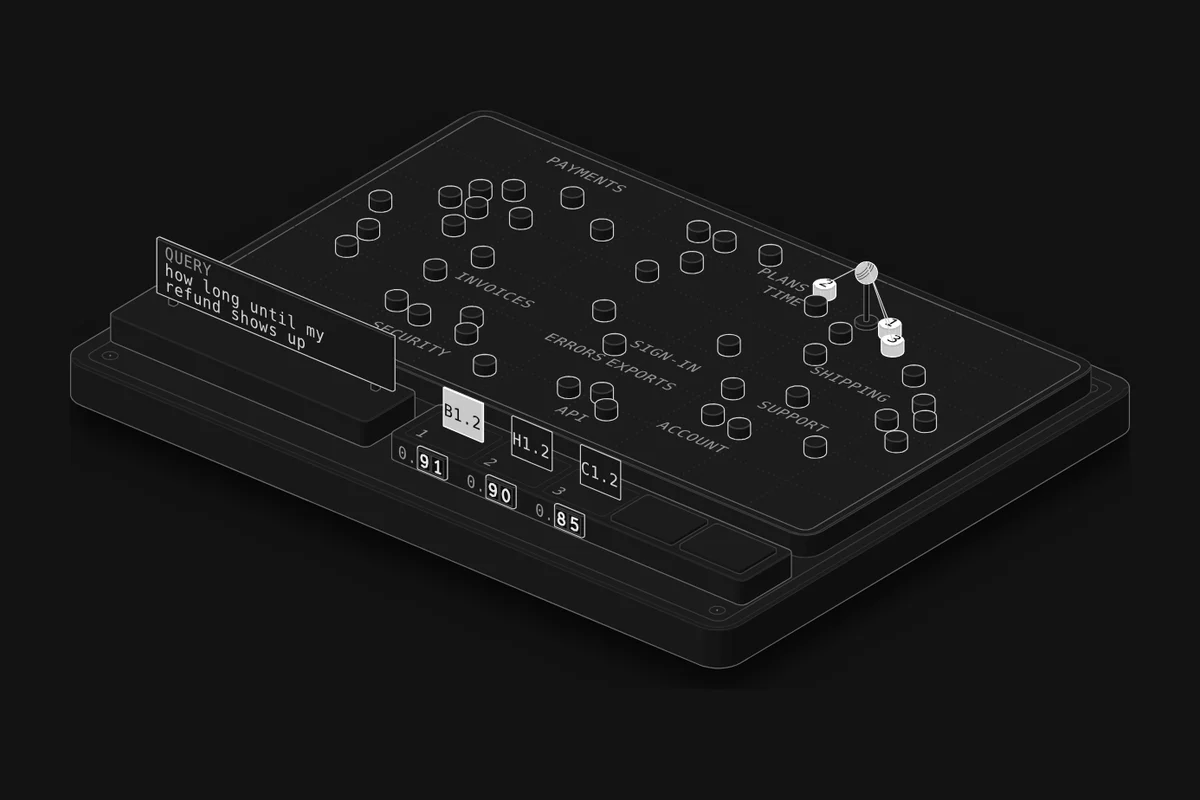
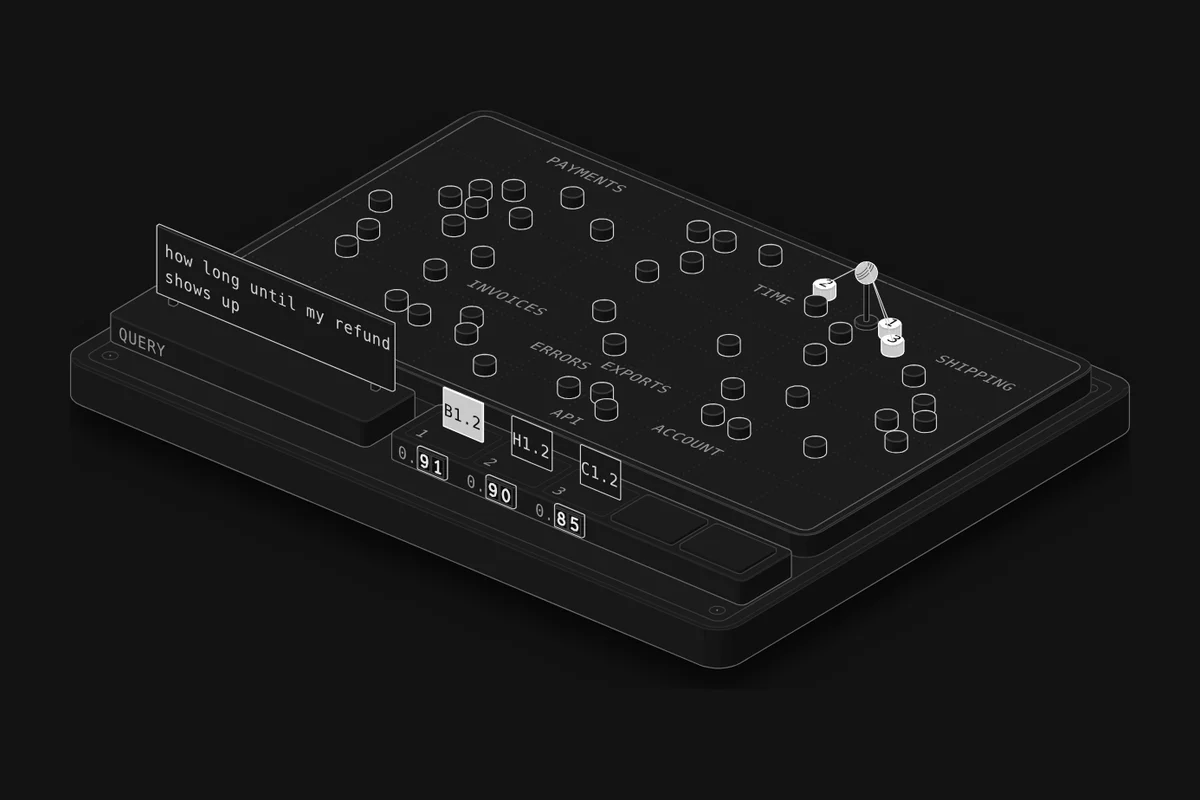
semantic: make the queries readable
- The query buttons show the whole query instead of cutting it at 24
  characters ("how long until my refund shows up", "lost my phone and
  can't log in").
- The query board's lines were spaced for the size the words are drawn
  at, but the 9 px floor makes them larger, so QUERY and the two lines ran
  into each other. The board is taller, its lines are spaced by the size
  the words come out at, a short query sits in the middle, and QUERY
  moved to the front of the desk.
- Constellation names were kept apart by their drawn size too, so they
  ran together (ERRORS EXPORTS) and sat under studs or behind the board;
  they now go by the floored size, and a name that would be covered is
  left out.
- On a phone the close-up has Query and Results regions, so the board can
  be read whole; the query stat takes a full row on the desktop too.

Claude-Session: https://claude.ai/code/session_01S5z2gCvevbrGU3fXgpGDmP

diff --git a/src/lessons/semantic/figure.ts b/src/lessons/semantic/figure.ts
@@ -25,7 +25,7 @@ export const FIELD = { x: MAP.x + 4, y: MAP.y + 4, w: MAP.w - 8, d: MAP.d - 8, p
 
 const CONSOLE = { x: -114, y: 28, w: 92, d: 22, r: 2 };
 const CONSOLE_H = 8;
-const BOARD = { x: CONSOLE.x + 4, y: CONSOLE.y + 6, w: 84, h: 17 };
+const BOARD = { x: CONSOLE.x + 4, y: CONSOLE.y + 6, w: 84, h: 21 };
 
 const RACK = { x: -14, y: 28, w: 126, d: 22, r: 2 };
 const RACK_H = 7.5;
@@ -59,19 +59,27 @@ function table() {
   return out.join("");
 }
 
-// The query console: a desk with the query printed on a standing board, and counters for how many
-// chunks the search compared out of how many there are.
+// The size a word on the board, or on the map, actually comes out at: raised to the 9 px floor (k.textFloor), the size
+// the line spacing and the wrapping have to go by.
+const flooredSize = (svg) => +k.textFloor(svg, WIDTH).match(/font-size="([\d.]+)"/)[1];
+const QUERY_SIZE = 3.9;
+const QUERY_FS = flooredSize(faceText(P, [BOARD.x, BOARD.y, CONSOLE_H], "x", { size: QUERY_SIZE }));
+// the board's lines, from the bottom: a query that fits one line sits in the middle
+const QUERY_MID = CONSOLE_H + 1.4 + BOARD.h / 2 - 0.36 * QUERY_FS;   // baseline of a line centred on the board
+const QUERY_LINES = { two: [QUERY_MID - 0.75 * QUERY_FS, QUERY_MID + 0.75 * QUERY_FS], one: QUERY_MID };
+
+// The query console: a desk with QUERY on its front and the query printed on a standing board, on one line or two.
 function consoleDesk() {
   const out = [S(k.slabOf(CONSOLE, 0, CONSOLE_H, P, 3, 0.5), { tone: "mid" })];
   const front = CONSOLE.y + CONSOLE.d;
-  // (how many chunks the search compared is in the stats strip)
+  out.push(faceText(P, [CONSOLE.x + 4, front, 2], t("QUERY", "CONSULTA"), { size: 2.2, tone: "mid" }));
   // the board: two legs and a panel; the query reads across its face
   const by = BOARD.y, z0 = CONSOLE_H + 1.4;
   for (const x of [BOARD.x + 6, BOARD.x + BOARD.w - 6]) out.push(S(k.slabOf({ x: x - 1, y: by - 1, w: 2, d: 2, r: 0.3 }, CONSOLE_H, 1.6, P, 2), { tone: "mid", crease: "none" }));
   out.push(S(k.slabOf({ x: BOARD.x, y: by - 1.2, w: BOARD.w, d: 1.2, r: 0.2 }, z0, BOARD.h, P, 2), { tone: "hi", crease: "lo" }));
-  out.push(faceText(P, [BOARD.x + 3, by, z0 + BOARD.h - 5], t("QUERY", "CONSULTA"), { size: 2.2, tone: "mid" }));
-  out.push(faceText(P, [BOARD.x + 3, by, z0 + 6.6], "", { size: 3.9, tone: "hi", attr: "data-query" }));
-  out.push(faceText(P, [BOARD.x + 3, by, z0 + 1.8], "", { size: 3.9, tone: "hi", attr: "data-query2" }));
+  out.push(faceText(P, [BOARD.x + 3, by, QUERY_LINES.two[1]], "", { size: QUERY_SIZE, tone: "hi", attr: "data-query" }));
+  out.push(faceText(P, [BOARD.x + 3, by, QUERY_LINES.one], "", { size: QUERY_SIZE, tone: "hi", attr: "data-query1" }));
+  out.push(faceText(P, [BOARD.x + 3, by, QUERY_LINES.two[0]], "", { size: QUERY_SIZE, tone: "hi", attr: "data-query2" }));
   return out.join("");
 }
 
@@ -141,8 +149,26 @@ export function buildFigure() {
   });
 }
 
-export const LABEL_SIZE = 3.1;
-// How many characters of the query fit a line of the board at the text floor (live.ts wraps it in two lines).
-const QUERY_CHARS = Math.floor((BOARD.w - 6) / (0.66 * k.textSize(P, k.TEXT_FLOOR_PX, { width: WIDTH })));
-export const GEOMETRY = { MAP, MAP_H, FIELD, SLOT_X, SLOTS, PIN, LAMP_TOP, LABEL_SIZE, QUERY_CHARS };
-export const labelSvg = () => faceText(P, [0, 0, MAP_H], "", { face: "top", size: LABEL_SIZE, tone: "mid", anchor: "middle", attr: "data-label" });
+export const labelSvg = () => faceText(P, [0, 0, MAP_H], "", { face: "top", size: 3.1, tone: "mid", anchor: "middle", attr: "data-label" });
+// The size a constellation's name comes out at on the map (raised to the floor): live.ts keeps the names apart by it.
+export const LABEL_SIZE = flooredSize(faceText(P, [0, 0, MAP_H], "x", { face: "top", size: 3.1 }));
+// How many characters of the query fit a line of the board (a monospace character is 0.6 em; live.ts wraps in two lines).
+const QUERY_CHARS = Math.floor((BOARD.w - 6) / (0.62 * QUERY_FS));
+// What the query board and its desk hide of the map, on screen: a name placed there would be cut off.
+const z0 = CONSOLE_H + 1.4;
+const HIDDEN = (() => {
+  const pts = [[BOARD.x, BOARD.y, z0], [BOARD.x + BOARD.w, BOARD.y, z0], [BOARD.x + BOARD.w, BOARD.y, z0 + BOARD.h], [BOARD.x, BOARD.y, z0 + BOARD.h],
+    ...k.boxCorners(CONSOLE, 0, CONSOLE_H)].map((p) => k.iso(p, P));
+  // convex hull (monotone chain), so live.ts can test a point with a cross product per edge
+  pts.sort((a, b) => a[0] - b[0] || a[1] - b[1]);
+  const cross = (o, a, b) => (a[0] - o[0]) * (b[1] - o[1]) - (a[1] - o[1]) * (b[0] - o[0]);
+  const half = (list) => { const h = []; for (const p of list) { while (h.length >= 2 && cross(h[h.length - 2], h[h.length - 1], p) <= 0) h.pop(); h.push(p); } h.pop(); return h; };
+  return [...half(pts), ...half([...pts].reverse())].map(([x, y]) => [+x.toFixed(2), +y.toFixed(2)]);
+})();
+export const GEOMETRY = { MAP, MAP_H, FIELD, SLOT_X, SLOTS, PIN, LAMP_TOP, LABEL_SIZE, QUERY_CHARS, HIDDEN };
+
+// The phone close-up's regions: the query on its board, and the results rack. (Otherwise it follows what is lit.)
+export const REGIONS = [
+  { id: "query", label: t("Query", "Consulta"), box: k.screenBox(P, k.boxCorners(CONSOLE, 0, z0 + BOARD.h), 2) },
+  { id: "results", label: t("Results", "Resultados"), box: k.screenBox(P, k.boxCorners(RACK, 0, RACK_H + CARD.h), 2) },
+];

diff --git a/src/lessons/semantic/live.ts b/src/lessons/semantic/live.ts
@@ -2,7 +2,7 @@
 // The star-map table in the browser: chunks the help centre at the chosen size, lays it out, runs each query's
 // search (an exact sweep or graph hops) step by step, and answers the controls. mount() gets the build-time data
 // from page.ts (geometry, part drawings) and root, the <wb-lesson>.
-import { translateAlong, depthOf, segment, lineSvg, ring } from "../../../workbench/vendor-anatomy/kit/iso-kit.mjs";
+import { translateAlong, depthOf, segment, lineSvg, ring, iso } from "../../../workbench/vendor-anatomy/kit/iso-kit.mjs";
 import * as WB from "../../runtime/wb";
 import { L as tr } from "../../runtime/wb";   // L is taken by the layers below
 import { playPause } from "../../runtime/dom";
@@ -20,7 +20,7 @@ export default function mount({ P, G, STUD, LAMP_SVG, ARM_SVG, BEAD_SVG, LABEL_S
   const L = { links: layer("links"), labels: layer("labels"), rings: layer("rings"), pins: layer("pins"), probe: layer("probe"), strings: layer("strings") };
   const make = (html) => { const g = document.createElementNS(NS, "g"); g.innerHTML = html; return g; };
   const counters = { sims: [0, 1, 2, 3, 4].map((i) => WB.counter(svg, "sim" + i, P)) };
-  const queryText = q("[data-query]"), queryText2 = q("[data-query2]");
+  const queryText = q("[data-query]"), queryText1 = q("[data-query1]"), queryText2 = q("[data-query2]");
   const slots = [0, 1, 2, 3, 4].map((i) => ({ card: q('[data-card="' + i + '"]'), body: q('[data-card="' + i + '"] .iso-solid'), text: q('[data-card-text="' + i + '"]'), cut: q('[data-cut="' + i + '"]'), lid: q('[data-lid="' + i + '"]'), simbox: q('[data-simbox="' + i + '"]'), rank: q('[data-rank="' + i + '"]') }));
 
   // ---------- the collection at each chunk size: chunks, map positions, graph ----------
@@ -64,9 +64,12 @@ export default function mount({ P, G, STUD, LAMP_SVG, ARM_SVG, BEAD_SVG, LABEL_S
       const x0 = cx - w / 2 - 1, x1 = cx + w / 2 + 1, y0 = cy - LS - 0.6, y1 = cy + 1;
       let bad = 0;
       if (x0 < F.x + 2 || x1 > F.x + F.w - 2 || y0 < F.y + 2 || y1 > F.y + F.d - 2) bad += 100;
-      // a stud covers its own footprint and, on screen, the strip of map just behind it
-      for (const p of COL.pos) for (const [ox, oy] of [[0, 0], [-1.5, -2.5], [-3, -5]]) { const px = p[0] + ox, py = p[1] + oy, nx = Math.max(x0, Math.min(px, x1)), ny = Math.max(y0, Math.min(py, y1)); if (Math.hypot(px - nx, py - ny) < r + 0.8) { bad += 10; break; } }
+      // a stud covers its own footprint and, on screen, the strip of map just behind it: a name under one goes unread
+      for (const p of COL.pos) for (const [ox, oy] of [[0, 0], [-1.5, -2.5], [-3, -5]]) { const px = p[0] + ox, py = p[1] + oy, nx = Math.max(x0, Math.min(px, x1)), ny = Math.max(y0, Math.min(py, y1)); if (Math.hypot(px - nx, py - ny) < r + 0.8) { bad += 50; break; } }
       for (const b of placed) if (x0 < b[1] && x1 > b[0] && y0 < b[3] && y1 > b[2]) bad += 50;
+      // behind the query board on screen (G.HIDDEN, a convex outline, counter-clockwise or clockwise)
+      const H = G.HIDDEN, inside = ([px, py]) => { let pos = 0, neg = 0; H.forEach((a, i) => { const b = H[(i + 1) % H.length], c = (b[0] - a[0]) * (py - a[1]) - (b[1] - a[1]) * (px - a[0]); if (c > 0) pos++; else if (c < 0) neg++; }); return !pos || !neg; };
+      if ([[x0, y0], [x1, y0], [x1, y1], [x0, y1], [(x0 + x1) / 2, (y0 + y1) / 2]].some(([wx, wy]) => inside(iso([wx, wy, G.MAP_H], P)))) bad += 50;
       return [bad, [x0, x1, y0, y1]];
     };
     Object.entries(groups).sort((a, b) => b[1].length - a[1].length).forEach(([t, idx]) => {
@@ -109,10 +112,10 @@ export default function mount({ P, G, STUD, LAMP_SVG, ARM_SVG, BEAD_SVG, LABEL_S
   function start(fresh) {
     if (fresh) build(cfg.size);
     run = plan();
-    // The query on the board at 9 px: two lines when it doesn't fit one (QUERY_CHARS a line).
+    // The query on the board at 9 px: one line in the middle, or two when it doesn't fit one (QUERY_CHARS a line).
     const words = run.query.text.split(" "), lines = [""];
     for (const w of words) { const cur = lines[lines.length - 1]; if (cur && (cur + " " + w).length > G.QUERY_CHARS && lines.length < 2) lines.push(w); else lines[lines.length - 1] = cur ? cur + " " + w : w; }
-    queryText.textContent = lines.length > 1 ? lines[0] : ""; queryText2.textContent = lines[lines.length - 1];
+    queryText.textContent = lines.length > 1 ? lines[0] : ""; queryText2.textContent = lines.length > 1 ? lines[1] : ""; queryText1.textContent = lines.length > 1 ? "" : lines[0];
     L.strings.innerHTML = ""; L.rings.innerHTML = ""; L.probe.innerHTML = "";
     pathEl.innerHTML = ""; L.links.appendChild(pathEl);
     if (cfg.search === "exact") L.probe.appendChild(arm); else L.probe.appendChild(bead);

diff --git a/src/lessons/semantic/page.ts b/src/lessons/semantic/page.ts
@@ -3,7 +3,7 @@
 import { t } from "../../i18n";
 import { defineLesson, withResults } from "../types";
 import { n0, pct, int } from "../../lib/format";
-import { buildFigure, studSvg, lampSvg, armSvg, beadSvg, labelSvg, P, GEOMETRY } from "./figure";
+import { buildFigure, studSvg, lampSvg, armSvg, beadSvg, labelSvg, P, GEOMETRY, REGIONS } from "./figure";
 import { paraphraseRun, codeRun, chunkRun, annRun, thresholdRun, QUERIES } from "./sim";
 
 // English ordinals for ranks: 1st, 2nd, 3rd, 4th … 11th, 12th, 13th … 21st, 22nd.
@@ -129,6 +129,7 @@ export default defineLesson({
       "Cada perno es un fragmento del centro de ayuda, ubicado de modo que los fragmentos con significado parecido queden juntos. La lámpara de cada consulta se para donde cae su consulta en el mapa; los hilos marcan los k más cercanos, y el estante los lista con su similitud coseno. Prueba la consulta del código de error, fragmentos más grandes, el índice de grafo y el umbral de 0.80. El centro de ayuda y las consultas están en inglés para que las cifras coincidan con el modelo."),
     plate: {
       title: t("Star-map table", "Mesa del mapa estelar"),
+      regions: REGIONS,
       keys: [
         { mark: "lit", label: t("The k nearest chunks with their rank; the query lamp; the sweep arm or the graph probe", "Los k fragmentos más cercanos con su puesto; la lámpara de la consulta; el brazo de barrido o la sonda del grafo") },
         { mark: "raised", label: t("Chunks as studs, placed by meaning; bigger chunks are bigger studs", "Fragmentos como pernos, ubicados por significado; los fragmentos más grandes son pernos más grandes") },
@@ -144,7 +145,7 @@ export default defineLesson({
     svg: buildFigure(),
     stats: [["query", t("Query", "Consulta")], ["top", t("Top result", "Primer resultado")], ["sim", t("Similarity", "Similitud")], ["compared", t("Compared", "Comparados")], ["kept", t("Kept", "Conservados")], ["recall", t("True nearest found", "Vecinos reales hallados")]],
     controls: [
-      { seg: "q", label: t("Query", "Consulta"), options: QUERIES.map((q) => [q.id, q.text.length > 26 ? q.text.slice(0, 24) + "…" : q.text]), value: "twice" },
+      { seg: "q", label: t("Query", "Consulta"), options: QUERIES.map((q) => [q.id, q.text]), value: "twice" },
       { seg: "k", label: t("Results (k)", "Resultados (k)"), options: [["1", "1"], ["3", "3"], ["5", "5"]], value: "3" },
       { seg: "size", label: t("Chunk", "Fragmento"), options: [["sentence", t("Sentence", "Oración")], ["section", t("Section", "Sección")], ["doc", t("Whole document", "Documento completo")]], value: "sentence" },
       { seg: "search", label: t("Search", "Búsqueda"), options: [["exact", t("Every chunk", "Cada fragmento")], ["narrow", t("Graph, narrow", "Grafo, estrecho")], ["wide", t("Graph, wide", "Grafo, amplio")]], value: "exact" },
@@ -160,7 +161,7 @@ export default defineLesson({
     `Figura dibujada con el kit isométrico <a href="https://github.com/wheresryan22/anatomy" target="_blank" rel="noopener">Anatomy</a> (MIT). Modelo de embeddings de juguete y centro de ayuda escritos para esta lección.`),
   css: `
 .iso-stage [data-layer] text{pointer-events:none}
-@media (max-width:640px){wb-stat[key="query"]{grid-column:1/-1}}
+wb-stat[key="query"]{grid-column:1/-1}
 [data-layer="links"] path{opacity:.7}
 `,
   data: {
